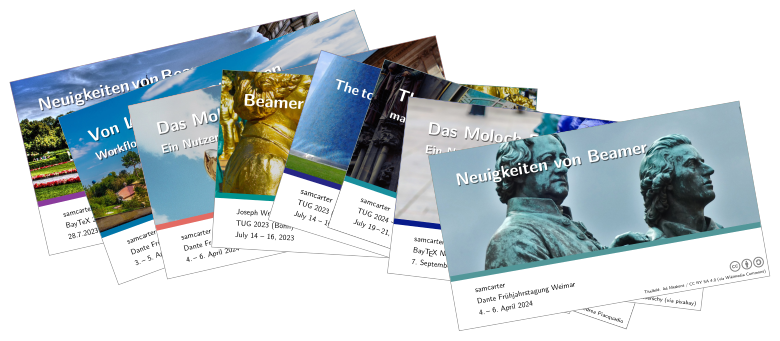
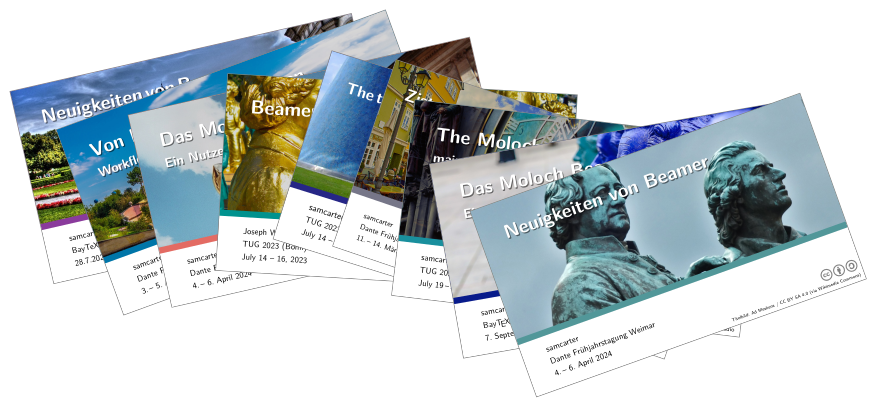
update readme

diff --git a/ressouces/talks.tex b/ressouces/talks.tex
@@ -20,11 +20,12 @@
   Dante2024_Moloch,
   TUG2023_BeamerNews,
   TUG2023_Tcolorbox,
+  Dante2026_Zisterzienser,
   TUG2024_Moloch,
   BayTeX2024_Moloch,
   Dante2024_BeamerNews%
 }{
-  \node[anchor=south,draw=gray,thick,rotate around={0+20*sin(40+50*\yi):(0,2)}] at (\yi*3cm,-\yi*0.6cm) {\includegraphics[clip]{\macro}};
+  \node[anchor=south,draw=gray,thick,rotate around={0+20*sin(40+50*\yi):(0,2)}] at (\yi*3cm,-\yi*0.6cm) {\includegraphics[height=10cm,clip]{\macro}};
 }
 \end{tikzpicture}
 

diff --git a/README.md b/README.md
@@ -63,6 +63,10 @@ Furthermore, I'm one of the maintainers for the LaTeX beamer class ([CTAN](https
 
 ![](./ressouces/talks.png)
 
+- **Dante Frühjahrstagung 2026 - Lahnau**
+  - Zisterzienser Ziffern mit LaTeX (
+      [📄&nbsp;abstract](https://www.dante.de/veranstaltungen/dante2026/dante-2026-lahnau-vortragsprogramm/),
+    )
 - **Dante Frühjahrstagung 2025 - Darmstadt**
   - Von LaTeX zum Plätzchen – Ein Workflow zum Erstellen einfacher 3D Dateien (
       [📄&nbsp;abstract](https://www.dante.de/veranstaltungen/dante2025/programm/vortraege/#samcarter-3d),
